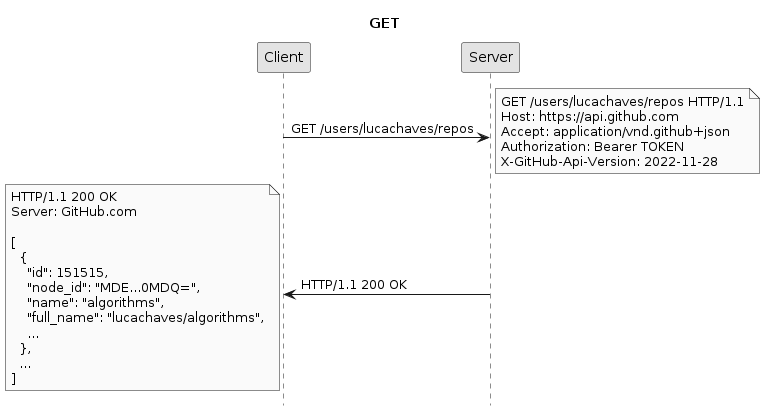
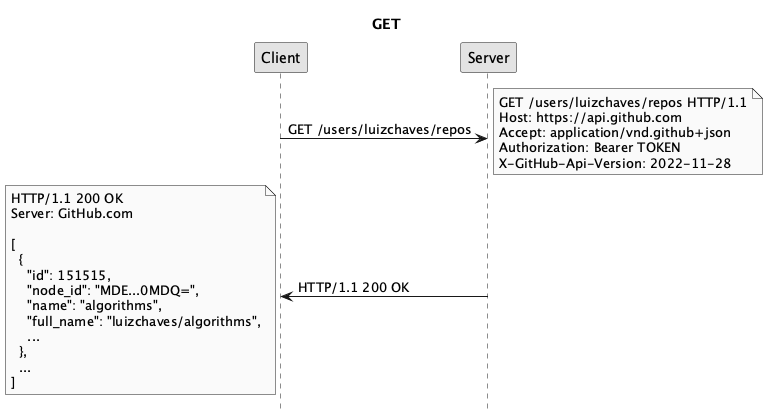
fix: github profile

diff --git a/src/consts.ts b/src/consts.ts
@@ -6,7 +6,7 @@ export const SUBJECT = {
   CHAT_URL: 'https://mail.google.com/mail/u/0/#chat/space/AAAAAji4jww',
   PROJECTS_URL: 'https://padlet.com/lucachaves/projetodw20241',
   GITHUB_URLS: {
-    A: 'https://github.com/lucachaves/dw-2024-1',
+    A: 'https://github.com/luizchaves/dw-2024-1',
   },
   SCHEDULES: [
     {
